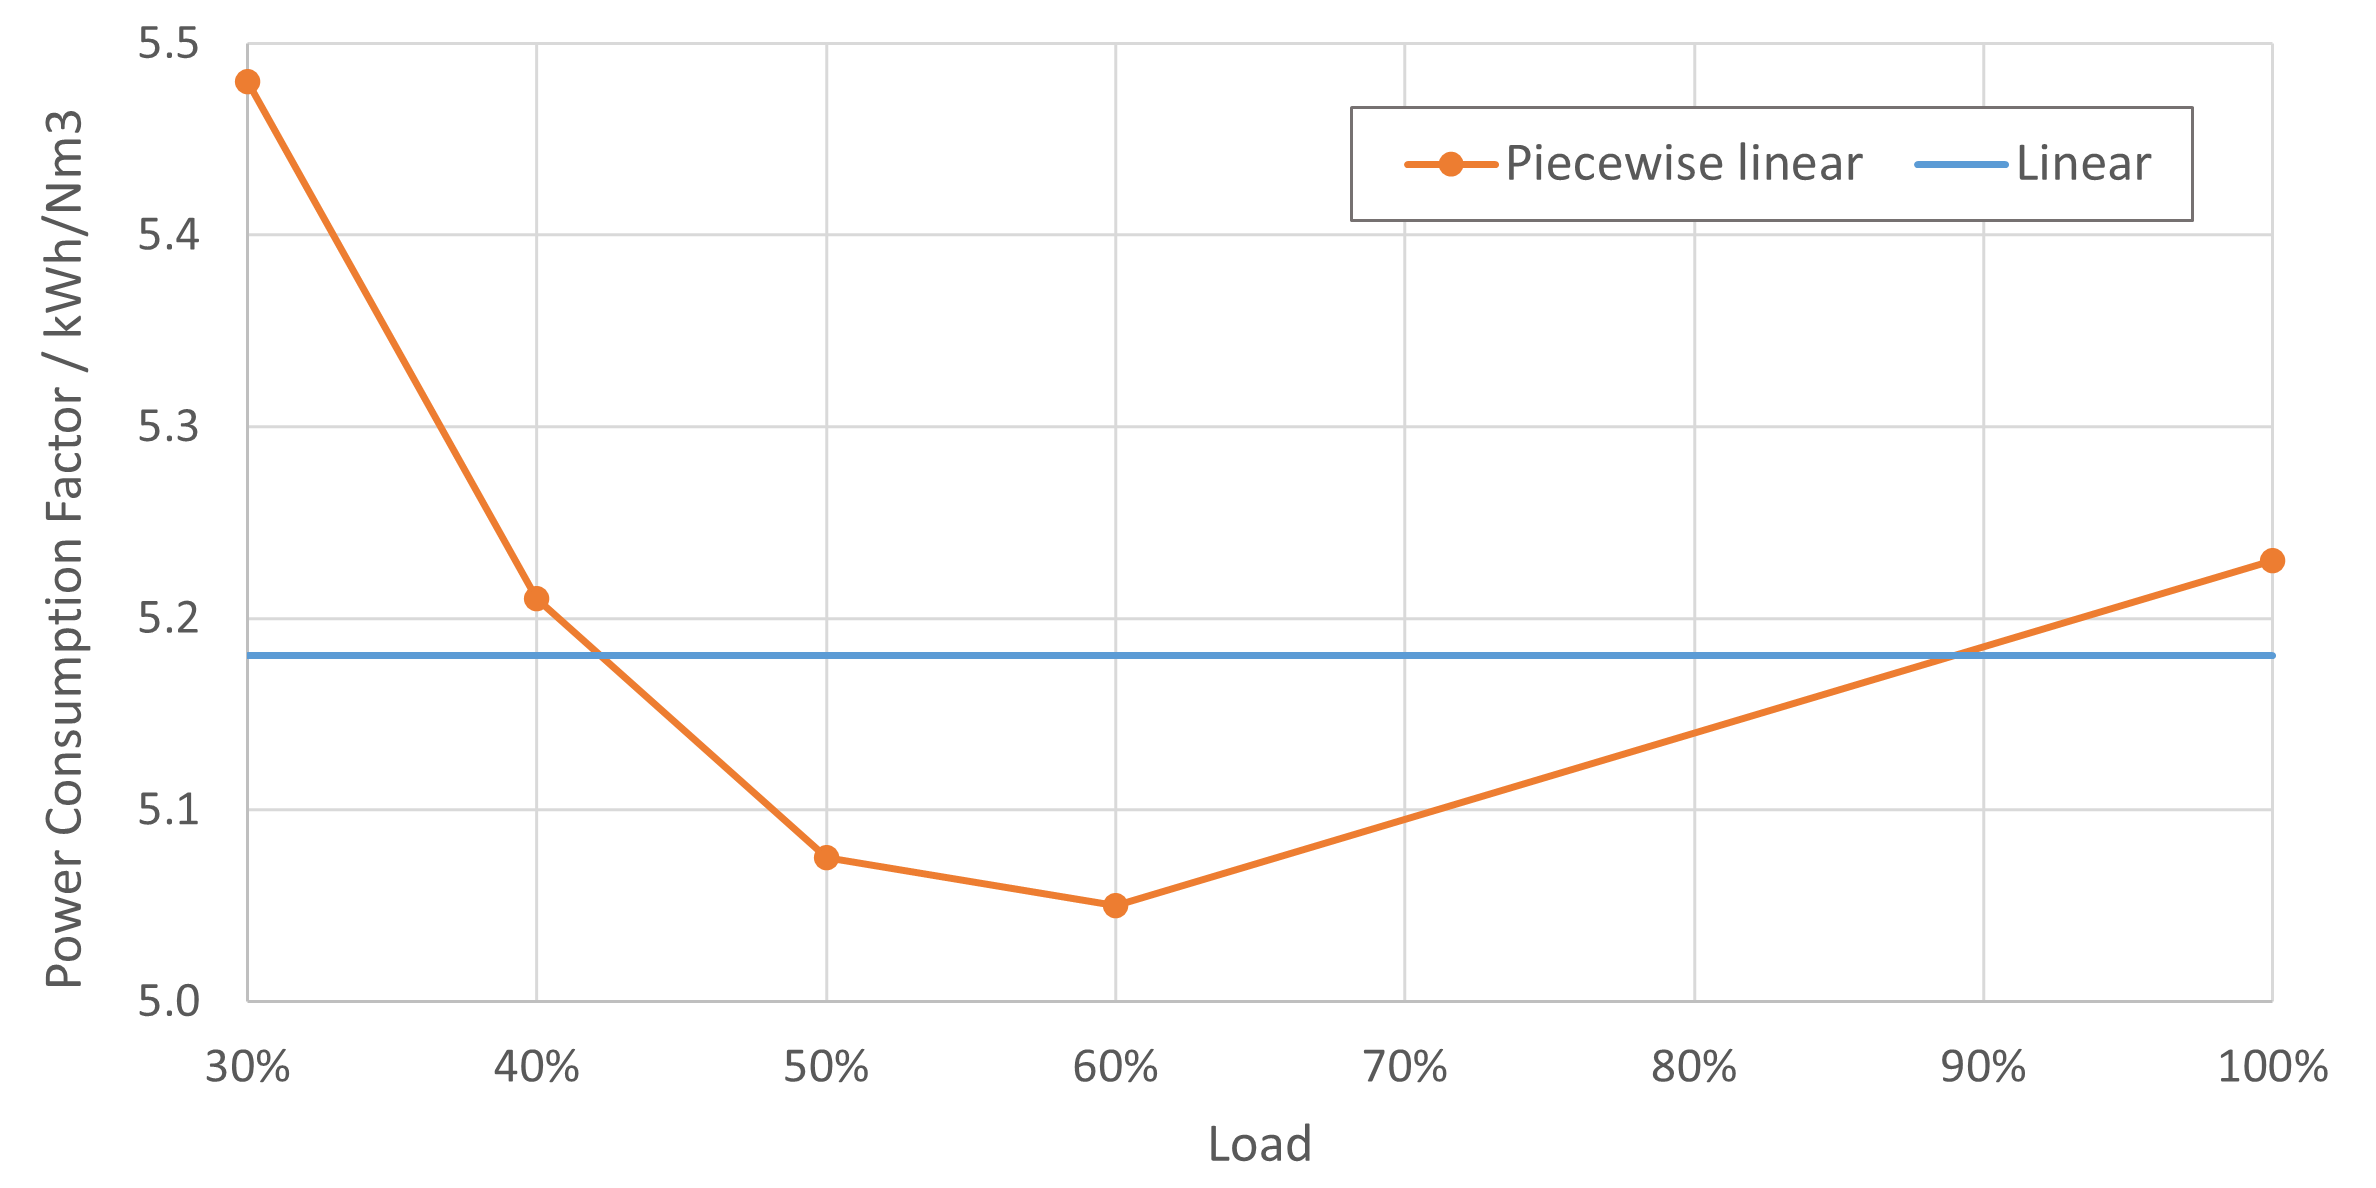
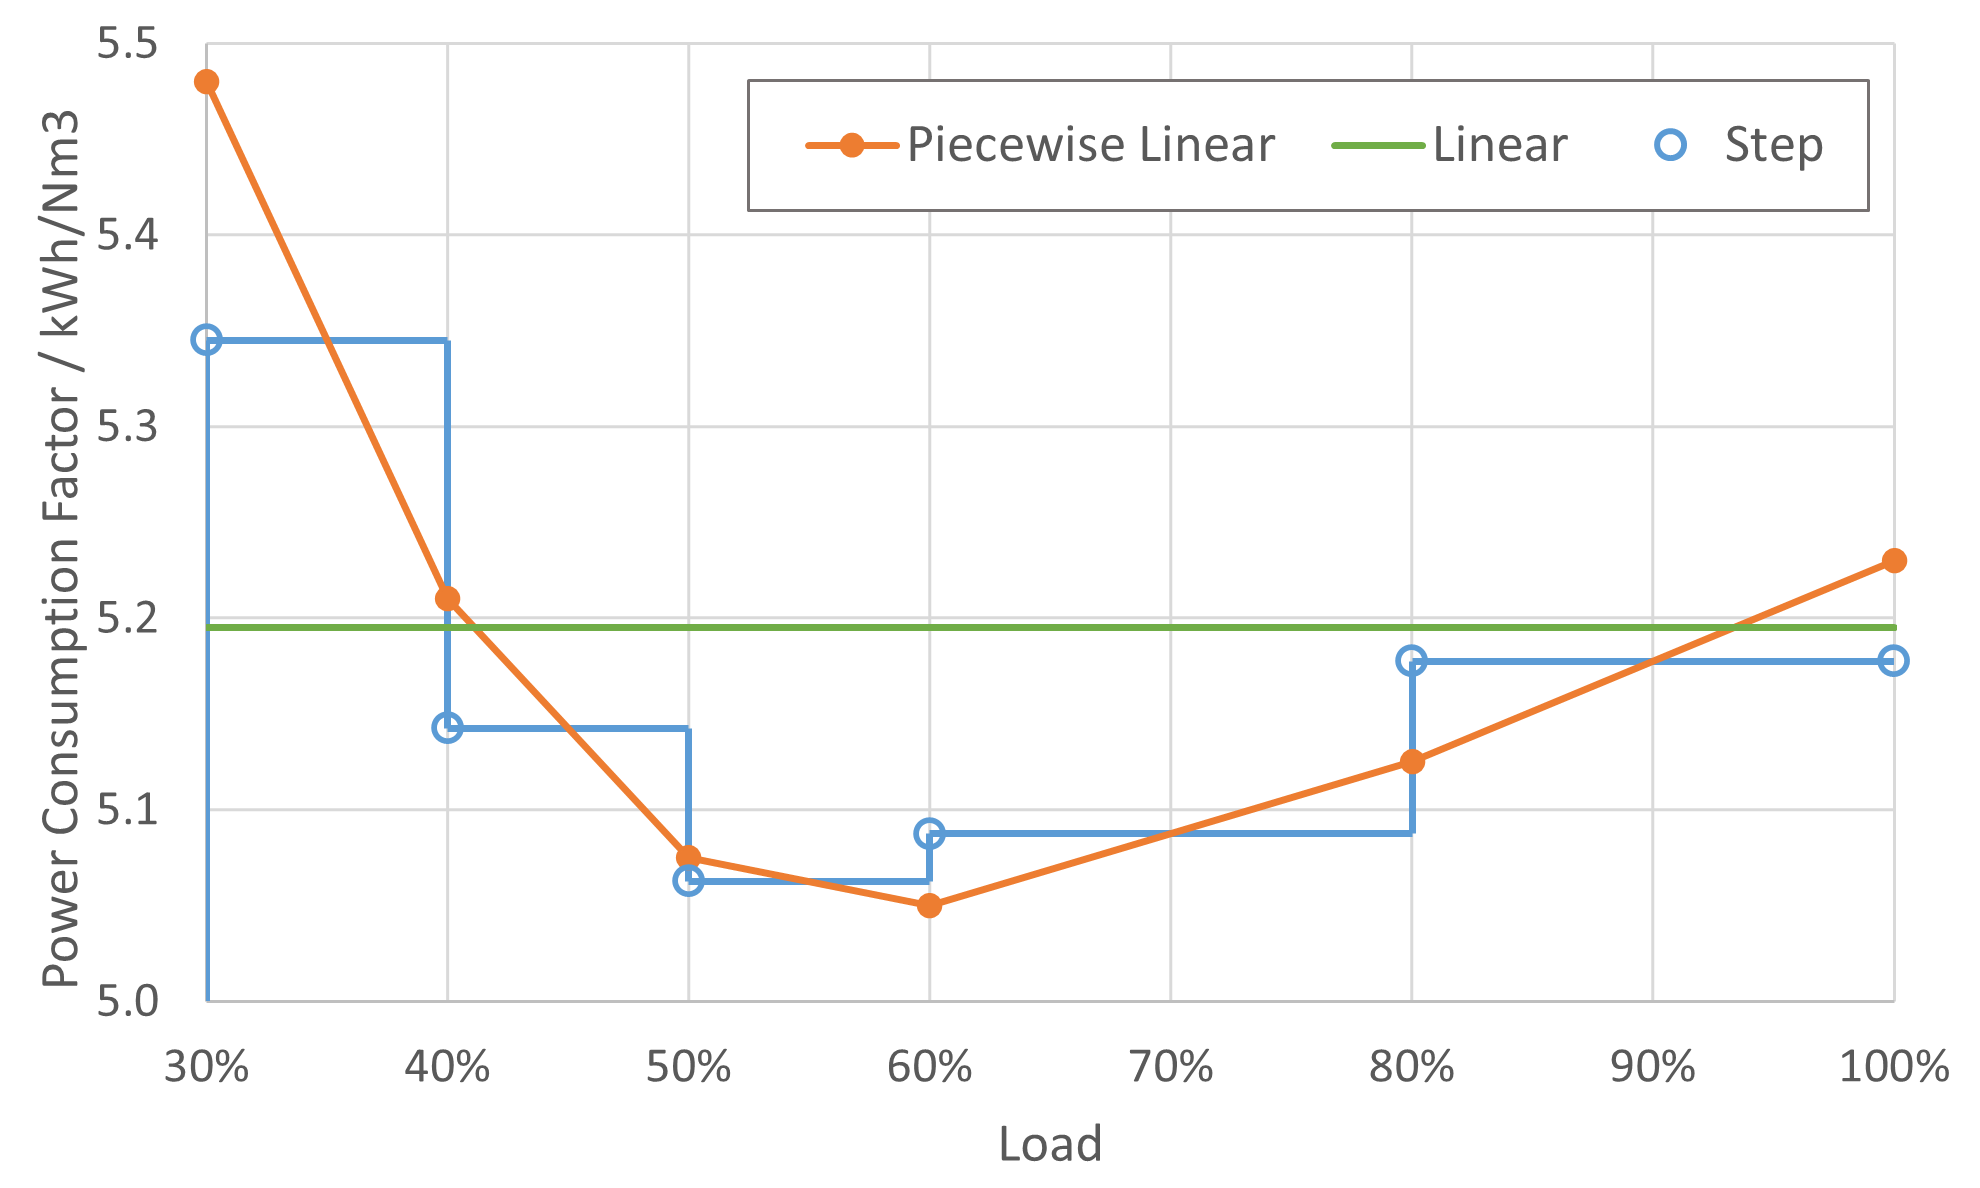
update post

diff --git a/docs/2025-12-31-能源系统设计：电解槽建模探索.md b/docs/2025-12-31-能源系统设计：电解槽建模探索.md
@@ -13,13 +13,19 @@ mathjax: true
 
 ## 问题描述
 
-假设一个简单的能源系统如下图所示，包含45MW风电、25MW光伏、20MW电解槽和储氢罐等主要组件。本文不涉及具体组件的数学建模过程，而是在假定已经具备模型的基础上，以最小化运行成本为目标函数，求解并对比不同电解槽建模方式下的绿氢生产。主要对比项目如下：
+假设一个简单的能源系统如下图所示，包含45MW风电、25MW光伏、20MW电解槽和储氢罐等主要组件。本文不涉及具体组件的数学建模过程，而是在假定已经具备模型的基础上，求解并对比不同电解槽建模方式下的绿氢生产。
+
+数值仿真时间范围为间隔1小时的一周共计24*7=168小时，容量配置已知，目标函数为最小化运行成本，即进行调度优化。求解器为开源的 [HiGHS](https://github.com/ERGO-Code/Highs)。
+
+主要对比项目如下：
 
 - 电解槽整体模型 v.s. 分组模型
 
-- 电解槽线性模型 v.s. 分段线性模型
+- 电解槽电耗简单线性模型 v.s. 分段线性模型 v.s. 阶梯函数模型
 
 - 电解槽启停约束 v.s. 无启停约束
+
+- 电解槽爬坡约束 v.s. 无爬坡约束
 
 
 ``` 
@@ -41,7 +47,7 @@ mathjax: true
                      electricity             hydrogen             
 ```
 
-数值仿真时间范围为间隔1小时的一周共计24*7=168小时，相应风光出力曲线如下图所示。
+风光出力曲线如下图所示。
 
 ![](./images/2025-12-31-01.png)
 
@@ -53,7 +59,7 @@ mathjax: true
 
 额定功率 | 平均电耗 | 工作区间
 :---: | :---: | :---:
-5MW | 5.18 kWh/Nm3 | 30%-100%
+5MW | 5.20 kWh/Nm3 | 30%-100%
 
 通过优化计算得到电解槽消纳风光功率的曲线如下图所示。可以看到，弱风弱光区间 [78,102] 内，整体建模的电解槽因为此刻风光功率低于工作区间下限而处于停机状态，而分组模型则可以启动部分电解槽工作。最终，分组模型相比整体模型提升绿氢产量约 3.51%。
 
@@ -69,33 +75,36 @@ mathjax: true
 
 
 
-## 电解槽线性模型 v.s. 分段线性模型
+## 电解槽电耗模型：简单线性 v.s. 分段线性 v.s. 阶梯函数
 
-上一组试验我们采用的是线性模型，即假设电解槽在任何工作功率下电耗均为 5.18 kWh/Nm3。然而，实际电解槽的电耗通常是非线性的，即不同工作功率对应不同的电耗系数。我们选择有限功率点后进行分段线性化，即可得到分段线性模型，如下图所示。
+电解槽的电耗通常是非线性的，即不同工作功率对应不同的电耗系数。上一组试验我们采用的是简单线性模型，即假设电解槽在任何工作功率下的电耗均为 5.20 kWh/Nm3。另外，我们还可以采用分段线性函数或者阶梯函数简化电耗非线性，如下图所示。
+
+- 分段线性模型：将电耗曲线表示为多个功率区间，电耗系数在每一个功率区间内进行线性化。
+
+- 阶梯函数模型：将电耗曲线表示为多个功率区间，电耗系数在每一个功率区间内保持不变。
 
 ![](./images/2025-12-31-04.png)
 
 
-分段线性模型将引入更多变量，必然影响计算效率，但相比简单线性模型是否更能准确反映电解槽的行为例如最终的产氢量？从电耗曲线图来看，二者确实差异较大。但转换为相应功率点下的单位氢气产量图，如下所示，二者则相当接近。因此，可以推论分段线性模型相比线性模型对最终产氢量的影响应该不大。
+分段线性或者阶梯函数模型都引入了更多变量，必然影响计算效率，但相比简单线性模型是否更能准确反映电解槽的行为例如最终的产氢量？从电耗曲线来看，三者确实差异较大。但转换为相应功率点下的单位氢气产量，如下图所示，虽然阶梯函数模型相比简单线性模型更为接近分段线性模型曲线，整体上三者相当接近。因此，可以推论无论分段线性模型还是阶梯函数模型，相比线性模型对最终产氢量的影响应该不大。
 
 ![](./images/2025-12-31-05.png)
 
-接下来看看数值试验结果是否支持这一推论。我们采用分组模型分别建模4台电解槽，然后对比简单线性和分段线性模型的功率消耗（下图）及绿氢产量。结果发现，简单线性模型的绿氢产量增加了 0.67%。也就是说，分段线性模型以较大计算效率损失为代价，仅仅带来了 0.67% 的精度提升。
+接下来看看数值试验结果是否支持这一推论。我们采用分组模型分别建模4台电解槽，然后对比各个模型的功率消耗（下图）及绿氢产量。结果发现，以简单线性模型为基准，分段线性模型的绿氢产量减少了 0.67%，阶梯函数模型则增加了0.49% —— 也就是说，分段线性和阶梯函数模型以较大计算效率损失为代价，仅仅带来了微弱的精度提升。
 
-综上，**使用分段线性模型的意义并不大**。
+因此，可以得出结论：**使用分段线性或者阶梯函数模型的实际意义并不大**。
 
 ![](./images/2025-12-31-06.png)
 
 
-最后，验证一下分段线性模型的实施效果以及探究为什么简单线性模型的绿氢产量高于分段线性模型。将4个电解槽在所有时刻的电耗计算值分别绘制散点图和频率图，如下所示。
-
-- 从散点图可以看到，分段线性模型在各个功率点的电耗计算值与理论输入值基本一致，验证模型约束正确。
-
-- 从频率图可以看到，输入功率基本集中在 [90%,100%] 区间；结合本节第一张图，此区间内简单线性模型的电耗系数正好小于分段线性模型，因为简单线性模型的制氢量会稍高。
+最后，验证一下分段线性和阶梯模型的实施效果。将4个电解槽在所有时刻的电耗计算值绘制成散点图，如下所示，两个模型在各个功率点的电耗计算值与理论输入值基本一致，验证模型约束正确。
 
 ![](./images/2025-12-31-07.png)
 
-![](./images/2025-12-31-08.png)
+
+最后，留下一个思考题：
+
+这个计算案例中，为什么分段线性模型和阶梯函数模型的绿氢产量相比简单线性模型分别是偏低和偏高？
 
 
 
@@ -105,7 +114,7 @@ mathjax: true
 
 本节基于简单线性、分组电解槽模型，分别施加和不施加启停约束，得到功率消耗结果如下图所示。如果不约束启停，4个电解槽在弱风弱光区间都存在频繁启停的现象；而一旦约束后，1-3号电解槽处于停机状态，仅由4号电解槽进行功率消耗。从最终制氢量来看，施加启停约束导致制氢量略微减小（-0.013%）。
 
-综上，**在更多关注氢气产量例如配置优化的场景下，可以忽略启停约束以提高计算效率；而调度优化场景下，则需要施加启停约束以确保调度合理性**。
+综上，针对具体需求可灵活调整启停约束：**在更多关注氢气产量例如配置优化的场景下，可以忽略启停约束以提高计算效率；而调度优化场景下，则需要考虑启停约束以确保调度方案的合理性**。
 
 ![](./images/2025-12-31-09.png)
 
@@ -114,3 +123,34 @@ mathjax: true
 ![](./images/2025-12-31-11.png)
 
 ![](./images/2025-12-31-12.png)
+
+
+## 电解槽爬坡约束 v.s. 无爬坡约束
+
+电解槽的爬坡约束用于限制其功率变化速率，以保护设备安全运行。类似启停约束，爬坡约束也会增加计算复杂度。
+
+由于本文数值仿真时间步长较大，人为限定正负爬坡率不超过30%/h（碱液电解槽实际爬坡率大于此值），以突出爬坡约束效果。本节基于简单线性、分组电解槽模型，得到施加爬坡约束前后的功率消耗结果如下图所示。二者在功率急剧变化区间存在差异，例如t=48-49h，无爬坡约束时，功率变化达到了12MW，超出了爬坡限制 20*30%=6MW；施加爬坡约束后，功率平缓下降。爬坡约束限制了电解槽消纳波动的可再生能源的能力，因此最终氢气产量降低了1.56%。
+
+![](./images/2025-12-31-13.png)
+
+![](./images/2025-12-31-14.png)
+
+
+## 结果汇总
+
+通过以上数值实验，我们可以看出不同电解槽建模方式对能源系统设计的影响。
+
+- 整体模型适用于计算效率要求较高的场景，而分组模型则在弱风弱光条件下表现更好。
+
+- 电耗模型方面，简单线性模型已能较好地反映电解槽行为，分段线性和阶梯函数模型的优势有限。
+
+- 启停和爬坡约束则需根据具体需求灵活调整，以平衡计算效率和调度合理性。
+
+| 序<br>号 | 整体<br>模型 | 分组<br>模型 | 简单<br>线性 | 分段<br>线性 | 阶梯<br>函数 | 启停<br>约束 | 爬坡<br>约束 | 计算<br>时间 | 氢气<br>产量 | 备注  |
+| :---: | :---: | :---: | :---: | :---: | :---: | :---: | :---: | :---: | :---: | --- |
+| 1     | x     |       | x     |       |       |       |       | 1.12  |       |     |
+| 2     |       |   x   | x     |       |       |       |       | 2.43  |+3.51% |对比1 |
+| 3     |       |   x   |       |   x   |       |       |       | 12.08 |-0.23% |对比2 |
+| 4     |       |   x   |       |       |   x   |       |       | 62.57 |+0.49% |对比2 |
+| 5     |       |   x   | x     |       |       |   x   |       | 11.16 |-0.013%|对比2 |
+| 6     |       |   x   | x     |       |       |       |   x   | 5.92  |-1.56% |对比2 |
